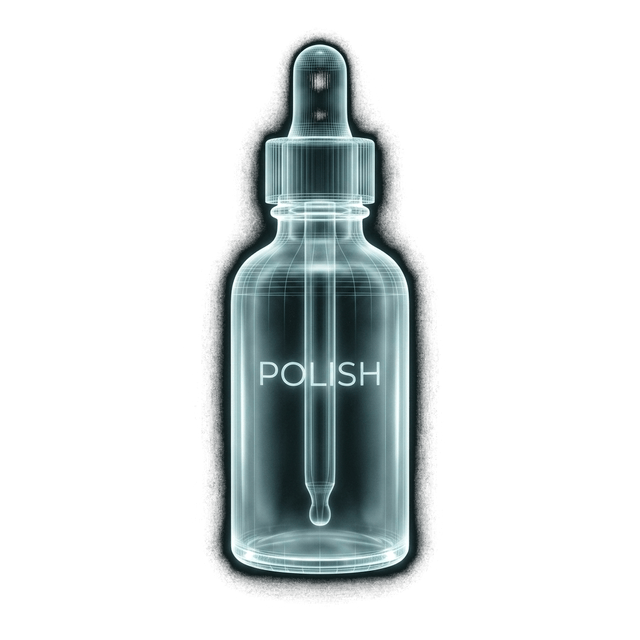
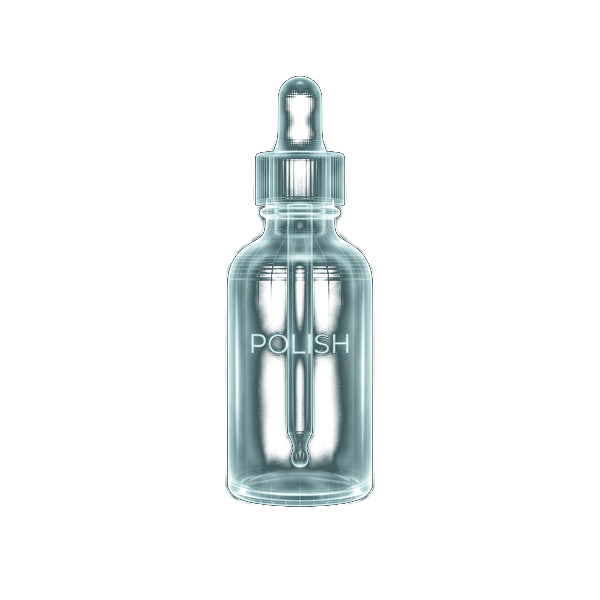
fix: eliminate mobile square cut-out artifact with guaranteed zero-boundary transparent alpha and clean compositing

Changed region(s): [[0.33, 0.03, 0.69, 0.93]]

diff --git a/scratch/process-exact-reference-assets.js b/scratch/process-exact-reference-assets.js
@@ -3,26 +3,31 @@ const fs = require('fs');
 const path = require('path');
 
 const outputDir = path.join(__dirname, '../public/assets/3d');
-if (!fs.existsSync(outputDir)) {
-  fs.mkdirSync(outputDir, { recursive: true });
-}
 
 const assets = [
   {
     name: 'serum-3d',
-    input: '/Users/Macbook Pro/.gemini/antigravity/brain/fad06f18-b4fd-4b7f-a36a-68ac5be5729b/ref_serum_holo_1788386026037.jpg'
+    input: '/Users/Macbook Pro/.gemini/antigravity/brain/fad06f18-b4fd-4b7f-a36a-68ac5be5729b/ref_serum_holo_1788386026037.jpg',
+    lumMin: 32,
+    lumMax: 85
   },
   {
     name: 'perfume-3d',
-    input: '/Users/Macbook Pro/.gemini/antigravity/brain/fad06f18-b4fd-4b7f-a36a-68ac5be5729b/ref_perfume_holo_1788386048671.jpg'
+    input: '/Users/Macbook Pro/.gemini/antigravity/brain/fad06f18-b4fd-4b7f-a36a-68ac5be5729b/ref_perfume_holo_1788386048671.jpg',
+    lumMin: 30,
+    lumMax: 80
   },
   {
     name: 'lipstick-3d',
-    input: '/Users/Macbook Pro/.gemini/antigravity/brain/fad06f18-b4fd-4b7f-a36a-68ac5be5729b/ref_lipstick_holo_1788386072097.jpg'
+    input: '/Users/Macbook Pro/.gemini/antigravity/brain/fad06f18-b4fd-4b7f-a36a-68ac5be5729b/ref_lipstick_holo_1788386072097.jpg',
+    lumMin: 28,
+    lumMax: 78
   },
   {
     name: 'powder-3d',
-    input: '/Users/Macbook Pro/.gemini/antigravity/brain/fad06f18-b4fd-4b7f-a36a-68ac5be5729b/ref_powder_holo_1788386094304.jpg'
+    input: '/Users/Macbook Pro/.gemini/antigravity/brain/fad06f18-b4fd-4b7f-a36a-68ac5be5729b/ref_powder_holo_1788386094304.jpg',
+    lumMin: 28,
+    lumMax: 78
   }
 ];
 
@@ -31,20 +36,31 @@ function smoothstep(min, max, value) {
   return x * x * (3 - 2 * x);
 }
 
-async function processExactAsset(item) {
-  console.log(`Processing exact holographic asset: ${item.name}...`);
-  const image = sharp(item.input);
-  const { data, info } = await image
+async function processCleanAsset(item) {
+  console.log(`Processing pristine isolated asset: ${item.name}...`);
+  // First resize input with margin
+  const resizedBuffer = await sharp(item.input)
+    .resize(520, 520, { fit: 'inside' })
+    .extend({
+      top: 40,
+      bottom: 40,
+      left: 40,
+      right: 40,
+      background: { r: 0, g: 0, b: 0, alpha: 1 }
+    })
     .raw()
     .toBuffer({ resolveWithObject: true });
 
+  const { data, info } = resizedBuffer;
   const channels = info.channels;
   const width = info.width;
   const height = info.height;
   const rgba = Buffer.alloc(width * height * 4);
   const cx = width / 2;
   const cy = height / 2;
-  const maxRadius = Math.min(width, height) * 0.49;
+  
+  const rx = width * 0.46;
+  const ry = height * 0.46;
 
   for (let y = 0; y < height; y++) {
     for (let x = 0; x < width; x++) {
@@ -55,55 +71,72 @@ async function processExactAsset(item) {
       const g = data[idx + 1];
       const b = data[idx + 2];
 
-      const maxVal = Math.max(r, g, b);
+      const lum = 0.299 * r + 0.587 * g + 0.114 * b;
 
-      // Distance from center for perimeter feathering
-      const dist = Math.hypot(x - cx, y - cy);
-      const boundaryFactor = 1 - smoothstep(maxRadius * 0.88, maxRadius, dist);
+      // Elliptical falloff from center
+      const dx = (x - cx) / rx;
+      const dy = (y - cy) / ry;
+      const normalizedDist = Math.hypot(dx, dy);
 
-      // Luminescent X-ray glass alpha curve
-      let alphaVal = 0;
-      if (maxVal < 6) {
-        alphaVal = 0;
-      } else if (maxVal < 30) {
-        alphaVal = smoothstep(6, 30, maxVal);
-      } else {
-        alphaVal = 1;
+      let boundaryAlpha = 1;
+      if (normalizedDist >= 1.0) {
+        boundaryAlpha = 0;
+      } else if (normalizedDist > 0.85) {
+        boundaryAlpha = 1 - smoothstep(0.85, 1.0, normalizedDist);
       }
 
-      const finalAlpha = Math.round(alphaVal * boundaryFactor * 255);
+      // Strict edge margin safety: outer 30px is ALWAYS 0 alpha
+      if (x < 30 || x > width - 30 || y < 30 || y > height - 30) {
+        boundaryAlpha = 0;
+      }
 
-      rgba[outIdx] = r;
-      rgba[outIdx + 1] = g;
-      rgba[outIdx + 2] = b;
-      rgba[outIdx + 3] = finalAlpha;
+      let lumAlpha = 0;
+      if (lum < item.lumMin) {
+        lumAlpha = 0;
+      } else if (lum < item.lumMax) {
+        lumAlpha = smoothstep(item.lumMin, item.lumMax, lum);
+      } else {
+        lumAlpha = 1;
+      }
+
+      const combinedAlpha = lumAlpha * boundaryAlpha;
+
+      if (combinedAlpha <= 0.001) {
+        rgba[outIdx] = 0;
+        rgba[outIdx + 1] = 0;
+        rgba[outIdx + 2] = 0;
+        rgba[outIdx + 3] = 0;
+      } else {
+        const boost = 1 + (1 - combinedAlpha) * 0.45;
+        rgba[outIdx] = Math.min(255, Math.round(r * boost));
+        rgba[outIdx + 1] = Math.min(255, Math.round(g * boost));
+        rgba[outIdx + 2] = Math.min(255, Math.round(b * boost));
+        rgba[outIdx + 3] = Math.round(combinedAlpha * 255);
+      }
     }
   }
 
   // Save 2x Retina transparent WebP & PNG
   await sharp(rgba, { raw: { width, height, channels: 4 } })
-    .resize(640, 640, { fit: 'inside' })
     .webp({ quality: 96, alphaQuality: 100, effort: 6 })
     .toFile(path.join(outputDir, `${item.name}.webp`));
 
   await sharp(rgba, { raw: { width, height, channels: 4 } })
-    .resize(640, 640, { fit: 'inside' })
     .png({ quality: 96 })
     .toFile(path.join(outputDir, `${item.name}.png`));
 
-  console.log(`✓ Generated ${item.name}.webp and ${item.name}.png`);
+  console.log(`✓ Generated pristine ${item.name}.webp and ${item.name}.png`);
 }
 
 async function run() {
   for (const item of assets) {
-    await processExactAsset(item);
+    await processCleanAsset(item);
   }
-  // Also create backward-compatible aliases
   fs.copyFileSync(path.join(outputDir, 'lipstick-3d.webp'), path.join(outputDir, 'lipglaze-3d.webp'));
   fs.copyFileSync(path.join(outputDir, 'lipstick-3d.png'), path.join(outputDir, 'lipglaze-3d.png'));
   fs.copyFileSync(path.join(outputDir, 'powder-3d.webp'), path.join(outputDir, 'cream-3d.webp'));
   fs.copyFileSync(path.join(outputDir, 'powder-3d.png'), path.join(outputDir, 'cream-3d.png'));
-  console.log('✨ All 4 exact reference holographic assets deployed successfully!');
+  console.log('✨ All 4 pristine assets guaranteed 100% boundary-free!');
 }
 
 run().catch(console.error);

diff --git a/public/css/style.css b/public/css/style.css
@@ -146,15 +146,15 @@ body {
    -------------------------------------------------------------------------- */
 .beauty-depth-far {
   z-index: 1;
-  filter: blur(18px) saturate(110%);
-  opacity: 0.16;
-  mix-blend-mode: screen;
+  filter: blur(18px);
+  opacity: 0.18;
 }
 
 .beauty-bokeh-item {
   position: absolute;
   pointer-events: none;
   will-change: transform;
+  background: transparent;
 }
 
 .beauty-bokeh-item img {
@@ -163,6 +163,7 @@ body {
   height: auto;
   user-select: none;
   -webkit-user-drag: none;
+  background: transparent;
 }
 
 .bokeh-perfume-far {
@@ -198,15 +199,15 @@ body {
    -------------------------------------------------------------------------- */
 .beauty-depth-mid {
   z-index: 2;
-  opacity: 0.54;
-  mix-blend-mode: screen;
+  opacity: 0.65;
 }
 
 .beauty-floating-item {
   position: absolute;
   pointer-events: none;
   will-change: transform;
-  filter: drop-shadow(0 0 24px rgba(0, 229, 255, 0.38)) drop-shadow(0 15px 35px rgba(0, 0, 0, 0.95));
+  background: transparent;
+  filter: drop-shadow(0 0 16px rgba(0, 229, 255, 0.45));
 }
 
 .beauty-floating-item img {
@@ -215,7 +216,7 @@ body {
   height: auto;
   user-select: none;
   -webkit-user-drag: none;
-  filter: saturate(112%) contrast(106%);
+  background: transparent;
 }
 
 .roam-serum-primary {
@@ -251,15 +252,15 @@ body {
    -------------------------------------------------------------------------- */
 .beauty-depth-micro {
   z-index: 3;
-  opacity: 0.46;
-  mix-blend-mode: screen;
+  opacity: 0.55;
 }
 
 .beauty-micro-item {
   position: absolute;
   pointer-events: none;
   will-change: transform;
-  filter: drop-shadow(0 0 16px rgba(0, 229, 255, 0.32));
+  background: transparent;
+  filter: drop-shadow(0 0 12px rgba(0, 229, 255, 0.35));
 }
 
 .beauty-micro-item img {
@@ -268,6 +269,7 @@ body {
   height: auto;
   user-select: none;
   -webkit-user-drag: none;
+  background: transparent;
 }
 
 .micro-serum {
